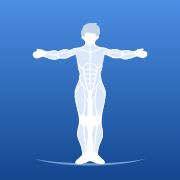
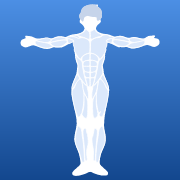
ALLの色を 赤→赤紫→紫→暗い紺色 に・アイコンの人を目いっぱい大きく
- ホームのALL：最近ほど赤、日がたつほど青みがかり、2週間以上前は暗い紺色
- アプリアイコン：足もとの弧を消し、人をアイコンの高さいっぱい（96%）に
  （URLの版の印も新しくなるので、追加し直すと新しいアイコンになる）

Changed region(s): [[0.1111, 0.0, 0.8889, 1.0]]

diff --git a/src/illustrations/icon.ts b/src/illustrations/icon.ts
@@ -1,21 +1,19 @@
-import { GROUND_ARC } from './shapes.ts';
 import { TPOSE_BASE, TPOSE_HAIR, TPOSE_MUSCLES, TPOSE_VIEWBOX } from './tposeShapes.ts';
 
 /**
- * アプリアイコンの SVG。青い背景に、T ポーズで足を閉じて立つ白い人（人の図と同じ絵柄）。
- * scale は人の大きさ（Android の丸く切り抜かれるアイコンでは小さめにする）。
+ * アプリアイコンの SVG。青い背景に、T ポーズで足を閉じて立つ白い人（人の図と同じ絵柄）を目いっぱい大きく。
+ * scale は人の大きさ（1 でアイコンの高さの 96%。Android の丸く切り抜かれるアイコンでは小さめにする）。
  */
-export function appIconSvg(scale = 0.86) {
+export function appIconSvg(scale = 1) {
   const { width, height } = TPOSE_VIEWBOX;
-  // 人の高さを 100 の座標で 92×scale にし、真ん中に置く
-  const s = (92 * scale) / height;
+  // 人の高さを 100 の座標で 96×scale にし、真ん中に置く
+  const s = (96 * scale) / height;
   const tx = 50 - (width * s) / 2;
-  const ty = 52 - (height * s) / 2;
+  const ty = 50 - (height * s) / 2;
   const muscles = TPOSE_MUSCLES.map((d) => `<path d="${d}" fill="#dbe8fb" stroke="#ffffff" stroke-width="2.6" stroke-linejoin="round"/>`).join('');
   return `<svg xmlns="http://www.w3.org/2000/svg" viewBox="0 0 100 100">
 <defs><linearGradient id="bg" x1="0" y1="0" x2="0" y2="1"><stop offset="0" stop-color="#4c8fe4"/><stop offset="1" stop-color="#13478e"/></linearGradient></defs>
 <rect width="100" height="100" fill="url(#bg)"/>
-<g transform="translate(50 52) scale(${scale}) translate(-50 -52)"><path d="${GROUND_ARC}" fill="#adcdf5" opacity="0.6"/></g>
 <g transform="translate(${tx.toFixed(2)} ${ty.toFixed(2)}) scale(${s.toFixed(5)})">
 <path d="${TPOSE_BASE}" fill="#ffffff"/><path d="${TPOSE_HAIR}" fill="#c6d4ea"/>${muscles}
 </g>

diff --git a/src/pages/HomePage.tsx b/src/pages/HomePage.tsx
@@ -24,7 +24,7 @@ export function HomePage() {
     const marked = new Set([...byDate].filter(([, parts]) => filter === 'all' || parts.has(filter)).map(([d]) => d));
     const lastByPart = lastTrainedByPart(data.sets, data.exercises);
     const last = filter === 'all' ? [...lastByPart.values()].sort().at(-1) : lastByPart.get(filter);
-    // ALL のときの図の色：最後に鍛えた日が近い部位ほど赤、前ほど紺むらさき（記録なしはグレー）
+    // ALL のときの図の色：最後に鍛えた日が近い部位ほど赤、前ほど青みがかり、2週間〜は暗い紺色（記録なしはグレー）
     const recency = Object.fromEntries(BODY_PARTS.map((p) => [p.id, recencyColor(lastByPart.has(p.id) ? daysSince(lastByPart.get(p.id)!, today) : null)]));
     return { last, marked, trained: new Set(byDate.keys()), recency };
   }, [data, filter, today]);
@@ -53,7 +53,7 @@ export function HomePage() {
             <div className="relative min-h-0 flex-1 px-4 py-1">
               <BodyMap selected={filter} onSelect={setFilter} allColors={recency} className="h-full w-full" />
               {filter === 'all' && (
-                // 色の見本：赤ほど最近、紺むらさきほど前（2週間〜）
+                // 色の見本：赤ほど最近、暗い紺色ほど前（2週間〜）
                 <div className="pointer-events-none absolute right-4 bottom-1 flex items-center gap-1.5 text-[10px] text-gray-500">
                   最近
                   <span className="h-2 w-16 rounded-full" style={{ background: RECENCY_GRADIENT }} />

diff --git a/src/lib/recency.test.ts b/src/lib/recency.test.ts
@@ -7,18 +7,21 @@ describe('最後に鍛えた日の近さで色を決める', () => {
     expect(recencyColor(1)).toBe('#ef4444');
   });
 
-  it('日がたつと 橙 → 黄 → 緑 → 青 と変わる', () => {
-    // 2週間を5区間に分けた、それぞれの区切りの日
-    const at = (k: number) => recencyColor(1 + ((FADE_DAYS - 1) * k) / 5);
-    expect(at(1)).toBe('#f97316');
-    expect(at(2)).toBe('#eab308');
-    expect(at(3)).toBe('#22c55e');
-    expect(at(4)).toBe('#3b82f6');
+  it('日がたつと 赤紫 → 紫 → 青紫 と青みがかっていく', () => {
+    // 2週間を4区間に分けた、それぞれの区切りの日
+    const at = (k: number) => recencyColor(1 + ((FADE_DAYS - 1) * k) / 4);
+    expect(at(1)).toBe('#c4286f');
+    expect(at(2)).toBe('#8b3aa8');
+    expect(at(3)).toBe('#4b3a96');
+    // 赤みが減り、青みが増えていく
+    const red = (c: string) => parseInt(c.slice(1, 3), 16);
+    expect(red(recencyColor(4))).toBeLessThan(red(recencyColor(1)));
+    expect(red(recencyColor(9))).toBeLessThan(red(recencyColor(4)));
   });
 
-  it('2週間以上前は紺むらさき', () => {
-    expect(recencyColor(FADE_DAYS)).toBe('#312e81');
-    expect(recencyColor(60)).toBe('#312e81');
+  it('2週間以上前は暗い紺色', () => {
+    expect(recencyColor(FADE_DAYS)).toBe('#1e2f5c');
+    expect(recencyColor(60)).toBe('#1e2f5c');
   });
 
   it('記録がない部位はグレー', () => {

diff --git a/src/lib/recency.ts b/src/lib/recency.ts
@@ -1,11 +1,11 @@
 /**
- * 最後に鍛えた日の近さを色で表す。最近ほど赤、そこから 橙 → 黄 → 緑 → 青 と変わり、
- * 2週間以上前は紺むらさき。どの部位を最近やれていないかがひと目で分かるようにする。
+ * 最後に鍛えた日の近さを色で表す。最近ほど赤、そこから 赤紫 → 紫 → 青紫 と青みがかっていき、
+ * 2週間以上前は暗い紺色（鮮やかでない色で「やれていない」と分かるように）。
  */
-const STOPS = ['#ef4444', '#f97316', '#eab308', '#22c55e', '#3b82f6', '#312e81'];
+const STOPS = ['#ef4444', '#c4286f', '#8b3aa8', '#4b3a96', '#1e2f5c'];
 /** まだ一度も鍛えていない部位 */
 export const NEVER_COLOR = '#e5e7eb';
-/** この日数で一番昔の色（紺むらさき）になる */
+/** この日数で一番昔の色（暗い紺色）になる */
 export const FADE_DAYS = 14;
 
 const rgb = (hex: string) => [1, 3, 5].map((i) => parseInt(hex.slice(i, i + 2), 16));

diff --git a/src/illustrations/shapes.ts b/src/illustrations/shapes.ts
@@ -1,10 +1,7 @@
 /**
- * アイコンや印の形（SVG のパス）。足もとの弧は 100×100、炎とトロフィーは 24×24 の座標。
+ * 印の形（SVG のパス）。炎とトロフィーは 24×24 の座標。
  * 人の形は bodyShapes.ts / tposeShapes.ts（参考画像をなぞったもの）。
  */
-
-/** 足もとのゆるい弧（参考画像の赤い弧のような台） */
-export const GROUND_ARC = 'M14 94 C30 100 70 100 86 94 C70 98 30 98 14 94 Z';
 
 /** 炎（24×24）。外側と内側の2色で描く */
 export const FLAME = {

diff --git a/scripts/make-icons.ts b/scripts/make-icons.ts
@@ -10,6 +10,6 @@ writeFileSync('public/apple-touch-icon.png', png(appIconSvg(), 180));
 writeFileSync('public/icon-192.png', png(appIconSvg(), 192));
 writeFileSync('public/icon-512.png', png(appIconSvg(), 512));
 // Android は丸などに切り抜くので、人を小さめにして切れないようにする
-writeFileSync('public/icon-maskable-512.png', png(appIconSvg(0.72), 512));
+writeFileSync('public/icon-maskable-512.png', png(appIconSvg(0.76), 512));
 writeFileSync('public/favicon.svg', appIconSvg());
 console.log('icons written');
